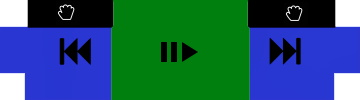
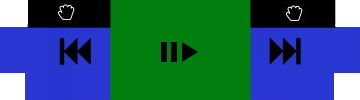
Updates to readme with gifs

diff --git a/README.md b/README.md
@@ -1,6 +1,6 @@
 # Melodify
 
-Yet another spotify "client" that runs alongisde the program, removing certain features and adding others. This program uses [SpotifyAPI-NET](https://github.com/JohnnyCrazy/SpotifyAPI-NET) in a WPF .NET Core application. **Do not run as an Admin**.
+Yet another spotify "client" that runs alongisde the program, removing certain features and adding others. This program uses [SpotifyAPI-NET](https://github.com/JohnnyCrazy/SpotifyAPI-NET) in a WPF .NET Core application.
 
 ## Features
 
@@ -23,19 +23,18 @@ Yet another spotify "client" that runs alongisde the program, removing certain f
 </table>
 
 ## Overview
+![](images/main.jpg) ![](images/melodify.gif)
 
-![](images/main.JPG)
-![](images/hover.jpg)
+The default view of the application. The blue circle are just recorded clicks, to show some functionality.
 
-The default view of the application.
 Hovering over it reveals four buttons that perform the following:
 
 Location | Symbol | Purpose
 :---: | :---: | ---
-↖|`い`|Expands the program to be fullscreen with blur
-↗|`り`|Menu with various views based on your taste
-↙|`ト`|Opens the playlist view, public and private
-↘|`グ`|Likes a song, adding it to your favorite tracks
+↖|`⛶`|Expands the program to be fullscreen with blur
+↗|`∞`|Menu with various views based on your taste
+↙|`≡`|Opens the playlist view, public and private
+↘|`♡`|Likes a song, adding it to your favorite tracks
 
 ![](images/hoverRaw.jpg)
 ![](images/hoverInfo.jpg)
@@ -51,15 +50,10 @@ Black |   | Allows dragging of window to desired location
 
 #### Fullscreen View
 ![](images/fullscreen.jpg)
-#### Top Songs View (video)
-[![Preview Top Songs](images/topSongs.jpg)](https://streamable.com/m08hx)
+#### Top Songs View (click for sound)
+[![Preview Top Songs](images/topSongs.gif)](https://streamable.com/m08hx)
 
 There are other features in play, with a number more planned! I work on this during the weekends, but you're also welcome to submit feature or pull requests at any point.
-
-## Planned Features
-- Display lyrics in full screen view
-- Implement user statistics view
-- Caching system for loading playlists
 
 ## Installation
 
@@ -67,14 +61,11 @@ There are other features in play, with a number more planned! I work on this dur
 >
 > Go to the [Releases](https://github.com/novatorem/Melodify/releases) page and download the latest release
 
-
-Currently Windows 10 support only, planning on further expansion if this picks up.
+Currently only supports Windows 10, planning on further expansion if this picks up.
 
 ## Development setup
 
-Developed on Visual Studio 2019
-
-A WPF application using .NET
+Developed on Visual Studio 2019 - a WPF application using .NET
 
 You'll need to get your own Spotify API and YouTube API access.
 Set up a Resources.resx file under the Solution Properties.
@@ -82,6 +73,10 @@ You'll then need three variables, with their respective keys:
 - SpotID
 - SpotSecret
 - YoutubeAPI
+
+## Known Issues
+
+- Running as an admin breaks the music video feature
 
 ## Various Views
 
